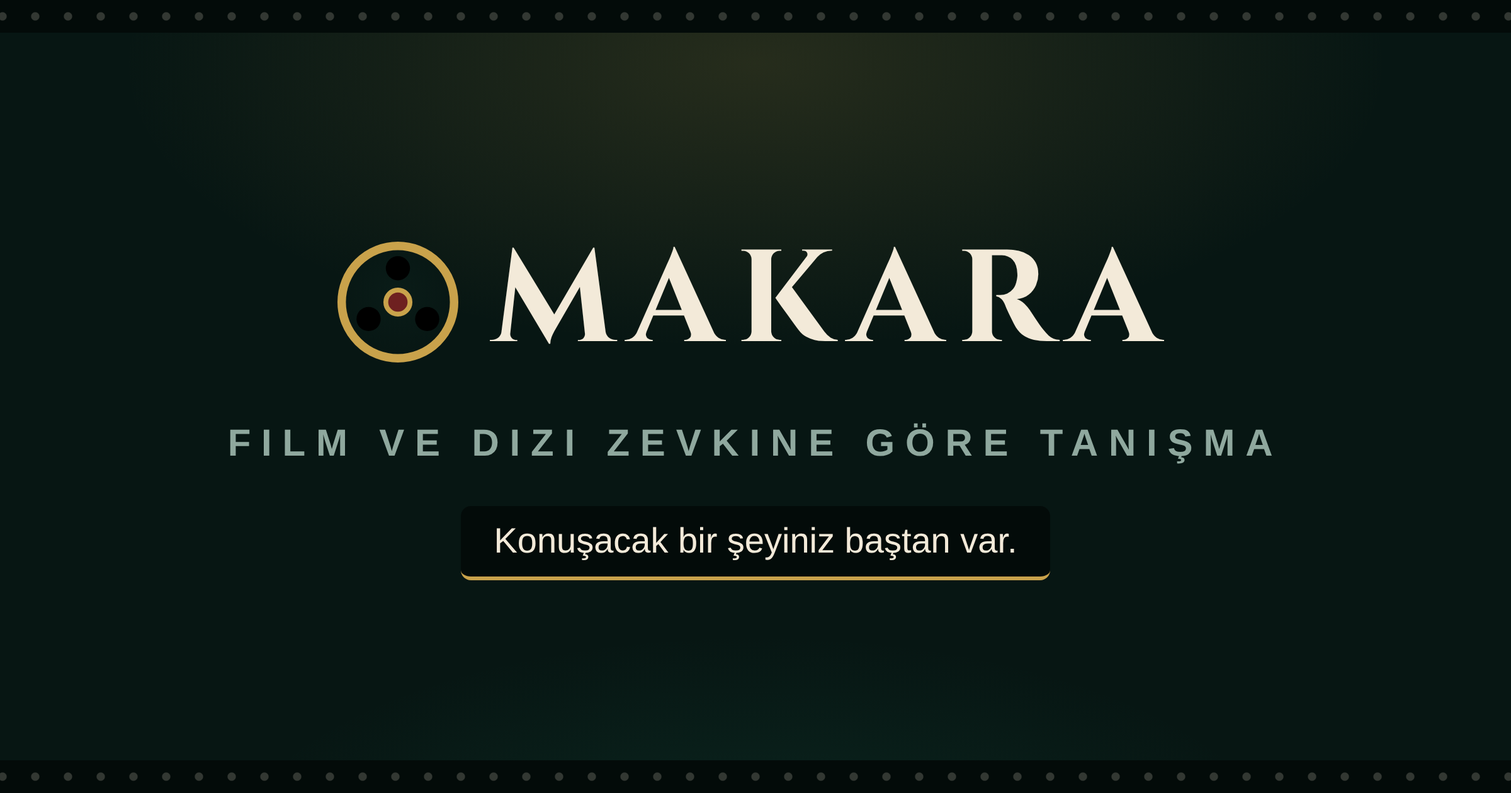
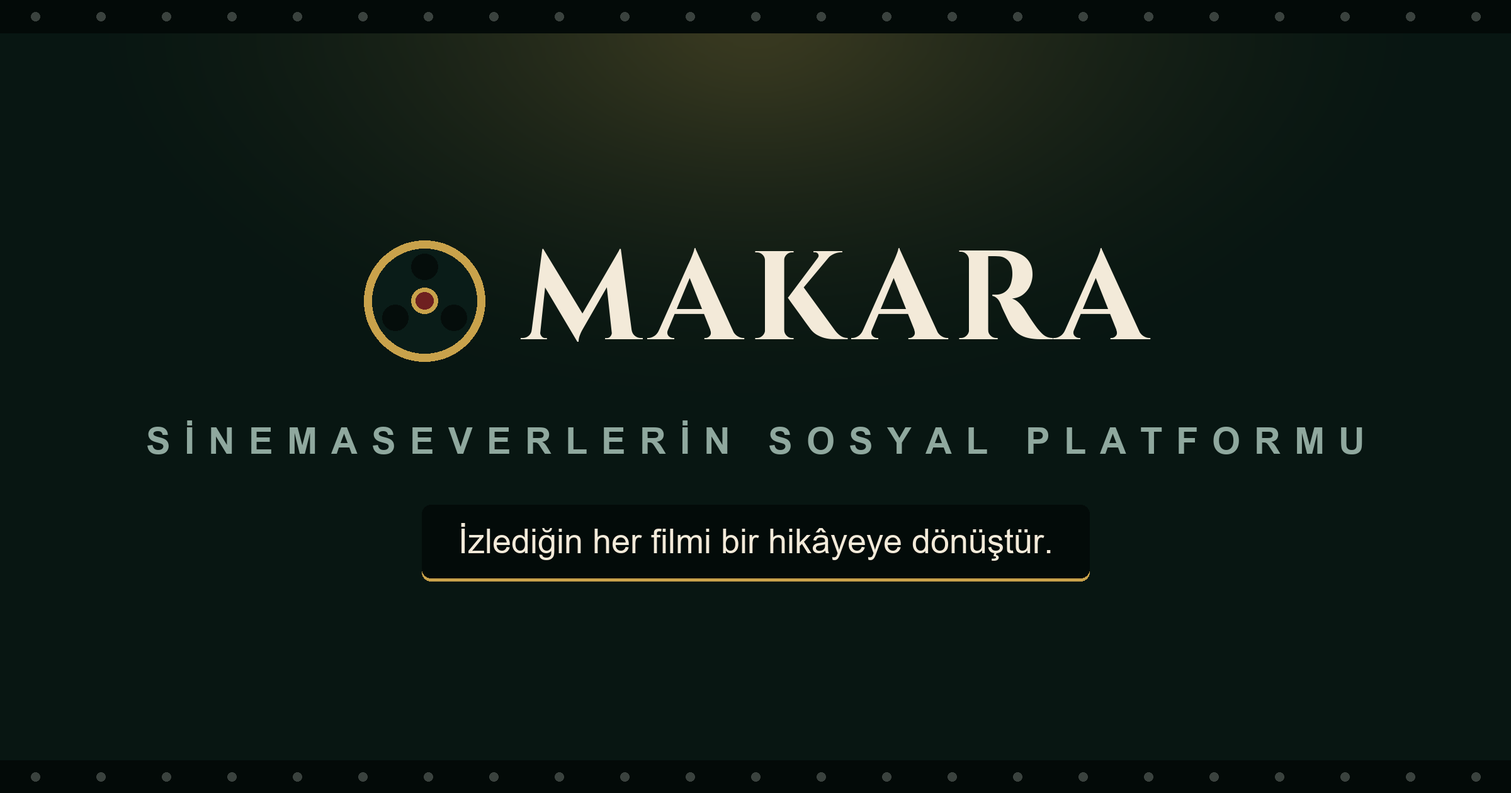
Ana sayfa film-sosyal: dating dili, eski gorseller ve dort kademe cikti
- Kahraman, ozellikler, levha, SSS ve meta/og metinleri film-sosyal
  (film gunlugu, fragman, takip/kesif, Izleme Kahini, Afis Turnuvasi,
  bilgi yarismasi, Zevk DNA'si, film akisi); TR + EN sozluk
- Premium bolumu: iki kademe, Basrol 149 TL/ay ve Yonetmen 1499 TL/ay;
  ozellikler uygulamadaki premium listesinden
- Eslesme/uyum/ortak liste ekran goruntuleri silindi; alt menude
  Eslesme/Begeni gorunen goruntuler yerine kirpilmis vitrin ve fragman
  seridi; kart ici canlandirmalar ayni tokenlarla
- og.png ayni duzende yeniden uretildi ("tanisma" kalkti)
- Stil, stil.css ve genel tasarim degismedi

Changed region(s): [[0.2188, 0.2786, 0.7812, 0.4643], [0.0938, 0.5262, 0.9062, 0.5881], [0.2812, 0.65, 0.7188, 0.7429]]

diff --git a/index.html b/index.html
@@ -3,15 +3,15 @@
 <head>
 <meta charset="UTF-8">
 <meta name="viewport" content="width=device-width, initial-scale=1">
-<title data-i18n="meta.title">MAKARA — Film ve dizi zevkine göre sinema topluluğu</title>
-<meta name="description" content="MAKARA, film ve dizi zevkine göre kurulan bir sinema topluluğu. Fragman izle, zevk uyumunu gör, ortak liste kur, film yarışması oyna.">
+<title data-i18n="meta.title">MAKARA — Sinemaseverlerin sosyal platformu</title>
+<meta name="description" content="MAKARA, sinemaseverlerin sosyal platformu. Film günlüğünü tut, fragman izle, puanla ve incele; Zevk DNA'nı keşfet, Afiş Turnuvası oyna, sinemaseverleri takip et.">
 <meta name="theme-color" content="#050D0B">
 <link rel="icon" href="/favicon.ico" sizes="any">
 <link rel="icon" type="image/png" sizes="32x32" href="/favicon-32x32.png">
 <link rel="apple-touch-icon" href="/apple-touch-icon.png">
 <meta property="og:type" content="website">
-<meta property="og:title" content="MAKARA — Film ve dizi zevkine göre sinema topluluğu">
-<meta property="og:description" content="Fragmanı izle, o filmi bekleyeni bul.">
+<meta property="og:title" content="MAKARA — Sinemaseverlerin sosyal platformu">
+<meta property="og:description" content="İzlediğin her filmi bir hikâyeye dönüştür. Film günlüğü, fragmanlar, Zevk DNA'sı, Afiş Turnuvası ve film akışı.">
 <meta property="og:image" content="https://makara.social/og.png">
 <meta property="og:url" content="https://makara.social/">
 <meta name="twitter:card" content="summary_large_image">
@@ -196,6 +196,52 @@ body::after{content:"";position:fixed;inset:0;pointer-events:none;z-index:12;opa
   .uzun{grid-row:auto}
 }
 
+/* Kart ici canlandirma: gercek ekran goruntusu yerine arayuzden kucuk
+   bir PARCA — ayni tokenlar, ayni ince cizgi, ayni koyu zemin. */
+.mock{margin-top:auto;padding-top:24px}
+.satirlar{display:flex;flex-direction:column;gap:10px}
+.satir{display:flex;align-items:center;gap:13px;padding:11px 14px;border:1px solid var(--line);
+  border-radius:16px;background:rgba(3,8,7,.45)}
+.satir b{display:block;font-size:14px;font-weight:600;color:var(--cream);line-height:1.3}
+.satir small{display:block;font-size:12.5px;color:var(--muted);line-height:1.35}
+.afis{flex:none;width:38px;height:56px;border-radius:7px;border:1px solid var(--line);
+  background:linear-gradient(160deg,#1d3a33,#07120f 72%)}
+.afis.t2{background:linear-gradient(160deg,#4a2a1c,#0d0806 72%)}
+.afis.t3{background:linear-gradient(160deg,#2b2a44,#08080f 72%)}
+.yuz{flex:none;width:34px;height:34px;border-radius:50%;border:1px solid var(--line);
+  background:radial-gradient(circle at 35% 30%,#2a4a42,#0a1714 75%)}
+.yuz.t2{background:radial-gradient(circle at 35% 30%,#5a4524,#120d06 75%)}
+.yildiz{margin-left:auto;color:var(--gold);letter-spacing:.12em;font-size:12.5px;white-space:nowrap}
+.cip{display:inline-block;align-self:flex-start;margin-top:14px;padding:6px 13px;border:1px solid rgba(201,162,75,.45);
+  border-radius:980px;font-family:var(--serif);font-size:10.5px;letter-spacing:.18em;text-transform:uppercase;color:var(--gold)}
+.takip{margin-left:auto;padding:5px 13px;border-radius:980px;background:var(--gold);color:#08110E;
+  font-size:12px;font-weight:600;white-space:nowrap}
+.takip.bos{background:none;border:1px solid var(--line);color:var(--muted)}
+.rakam small{font-size:.36em;letter-spacing:-.01em;color:var(--gold-soft)}
+.arketip{font-family:var(--serif);font-weight:700;font-size:clamp(20px,2vw,24px);letter-spacing:.04em;
+  color:var(--gold);margin-bottom:10px;line-height:1.2}
+.radar{display:block;width:112px;height:112px;margin:0 auto}
+.vs{display:flex;align-items:center;justify-content:center;gap:14px}
+.vs .afis{width:70px;height:102px;border-radius:10px}
+.vs .afis.secili{border-color:var(--gold);box-shadow:0 0 0 1px var(--gold),0 12px 30px rgba(201,162,75,.18)}
+.vs span{font-family:var(--serif);color:var(--gold);font-size:12px;letter-spacing:.24em}
+.soru{padding:11px 14px;border:1px solid var(--line);border-radius:14px;font-size:13px;
+  color:var(--cream);text-align:center;background:rgba(3,8,7,.45)}
+.sik{margin-top:7px;padding:8px 14px;border:1px solid var(--line);border-radius:12px;font-size:13px;color:var(--muted)}
+.sik.dogru{border-color:rgba(201,162,75,.7);color:var(--cream)}
+
+/* ---------------- kademeler ---------------- */
+.kademeler{display:grid;grid-template-columns:repeat(2,1fr);gap:clamp(12px,1.4vw,18px);max-width:980px;margin:0 auto}
+.kademe{display:flex;flex-direction:column}
+.kademe.ust{box-shadow:inset 0 0 0 1px rgba(201,162,75,.55),inset 0 1px 0 rgba(255,255,255,.045)}
+.kademe .ad{font-family:var(--serif);font-weight:700;font-size:clamp(24px,2.6vw,30px);letter-spacing:.06em;color:var(--cream)}
+.kademe .rakam{margin:12px 0 6px}
+.kademe ul{list-style:none;margin-top:20px;display:flex;flex-direction:column;gap:9px}
+.kademe li{position:relative;padding-left:22px;color:var(--muted);font-size:14.5px}
+.kademe li::before{content:"";position:absolute;left:2px;top:.6em;width:8px;height:8px;border-radius:50%;border:1.5px solid var(--gold)}
+.kademe li b{color:var(--cream);font-weight:600}
+@media(max-width:900px){.kademeler{grid-template-columns:1fr}}
+
 /* ---------------- KREM LEVHA ----------------
    Sayfanin tek acik zeminli yeri. Apple'in siyah/beyaz donusumunun
    bizdeki karsiligi; ayrica sayfayi ikiye bolerek "daha var" der. */
@@ -258,6 +304,7 @@ footer .kucuk a{color:#7E9189}
   <a class="marka" href="#"><svg><use href="#reel"/></svg>MAKARA</a>
   <nav>
     <a href="#ozellikler" data-i18n="nav.feat">Özellikler</a>
+    <a href="#premium" data-i18n="nav.prem">Premium</a>
     <a href="#sss" data-i18n="nav.faq">SSS</a>
   </nav>
   <div class="sag">
@@ -271,81 +318,170 @@ footer .kucuk a{color:#7E9189}
 <section class="acilis">
   <div class="acilis-ic">
     <svg class="reel bel"><use href="#reel"/></svg>
-    <h1 class="h1 bel" data-i18n="hero.h1">Ne izlediğin,<br><span>kim olduğunu söyler.</span></h1>
-    <p class="slogan bel" data-i18n="hero.lead">Film ve dizi zevkine göre kurulan sinema topluluğu.</p>
+    <h1 class="h1 bel" data-i18n="hero.h1">İzlediğin her filmi<br><span>bir hikâyeye dönüştür.</span></h1>
+    <p class="slogan bel" data-i18n="hero.lead">Sinemaseverlerin sosyal platformu. Film günlüğünü tut, fragman izle, zevkini keşfet.</p>
     <div class="dugmeler bel">
       <a class="dgm dolu" href="https://play.google.com/store/apps/details?id=social.makara.app"
          target="_blank" rel="noopener" data-i18n="hero.play">Google Play'den indir</a>
       <span class="dgm bos" data-i18n="hero.ios">App Store'da yakında</span>
     </div>
   </div>
-  <div class="urun bel"><img src="img/2-fragman.webp" alt="MAKARA fragman vitrini" fetchpriority="high"></div>
+  <div class="urun bel"><img src="img/vitrin.webp" alt="MAKARA keşfet ekranı" fetchpriority="high"></div>
 </section>
 
 <!-- ===================== BENTO ===================== -->
 <section class="bolum" id="ozellikler">
   <div class="basi bel">
     <span class="etiket" data-i18n="oz.etiket">Özellikler</span>
-    <h2 class="h2" data-i18n="oz.h">Konuşacak bir şeyle başla.</h2>
-    <p data-i18n="oz.p">Boş bir “selam” yerine, ikinizin de sevdiği bir filmle.</p>
+    <h2 class="h2" data-i18n="oz.h">Seyirciden fazlası.</h2>
+    <p data-i18n="oz.p">İzlediklerin bir günlüğe, puanların bir zevk haritasına, takip ettiğin sinemaseverler bir akışa dönüşür.</p>
   </div>
 
   <div class="bento">
     <article class="kutu a4 uzun bel">
-      <span class="etiket" data-i18n="k1.e">Fragman vitrini</span>
-      <h3 class="h3" data-i18n="k1.h">Fragmanı izle,<br>o filmi bekleyeni bul.</h3>
-      <p data-i18n="k1.p">Vizyona girecek yapımların fragmanları ana sayfanda. Uygulamadan çıkmadan izle; video biter bitmez aynı filmi bekleyen seyirciler karşında.</p>
-      <div class="pencere"><img src="img/2-fragman.webp" alt="" loading="lazy" style="--kaydir:-14%"></div>
+      <span class="etiket" data-i18n="k1.e">Film günlüğü</span>
+      <h3 class="h3" data-i18n="k1.h">İzle, kaydet,<br>incele, puanla.</h3>
+      <p data-i18n="k1.p">İzlediğin her film ve diziyi günlüğüne ekle, puan ver, inceleme yaz. İnceledikçe Yeni Eleştirmen’den Efsane Eleştirmen’e rozetler kazan.</p>
+      <div class="mock">
+        <div class="satirlar">
+          <div class="satir"><span class="afis"></span><div><b>Stalker</b><small data-i18n="k1.r1">1979 · İnceleme yazdın</small></div><span class="yildiz">★★★★★</span></div>
+          <div class="satir"><span class="afis t2"></span><div><b>Chungking Express</b><small data-i18n="k1.r2">1994 · Puanladın</small></div><span class="yildiz">★★★★☆</span></div>
+          <div class="satir"><span class="afis t3"></span><div><b>Oldboy</b><small data-i18n="k1.r3">2003 · İzleme listende</small></div></div>
+        </div>
+        <span class="cip" data-i18n="k1.rozet">Usta Eleştirmen rozeti</span>
+      </div>
     </article>
 
     <article class="kutu a2 bel">
-      <span class="etiket" data-i18n="k2.e">Zevk uyumu</span>
-      <div class="rakam" data-i18n="k2.n">%88</div>
-      <p data-i18n="k2.p">Favorilerin, izleme listen ve türlerin karşılaştırılır. Uyumunu ve ortak filmlerinizi yüzdeyle görürsün.</p>
+      <span class="etiket" data-i18n="k2.e">İzleme Kâhini</span>
+      <div class="rakam" data-i18n="k2.n">~4,2<small>/5</small></div>
+      <p data-i18n="k2.p">Bir filmi izlemeden önce kaç puan vereceğini tahmin eder. İzleyince puanla, isabetini gör.</p>
     </article>
 
     <article class="kutu a2 bel">
-      <span class="etiket" data-i18n="k3.e">Ortak liste</span>
-      <h3 class="h3" data-i18n="k3.h">Tek liste, iki kişi.</h3>
-      <p data-i18n="k3.p">Tanıştığın kişiyle paylaşılan izleme listesi. Kim ne ekledi, hangisini izlediniz.</p>
-      <div class="pencere" style="--boy:clamp(140px,15vw,178px)"><img src="img/4-ortakliste.webp" alt="" loading="lazy" style="--kaydir:-18%"></div>
+      <span class="etiket" data-i18n="k3.e">Zevk DNA’sı</span>
+      <div class="arketip" data-i18n="k3.h">Yeraltı Kâşifi</div>
+      <p data-i18n="k3.p">İzlediklerin ve incelemelerinden 17 arketipten biri çıkar; paylaşılabilir kimlik kartın olur.</p>
+      <div class="mock">
+        <svg class="radar" viewBox="0 0 120 120" aria-hidden="true">
+          <polygon points="60,10 103.3,35 103.3,85 60,110 16.7,85 16.7,35" fill="none" stroke="#193A33" stroke-width="1.2"/>
+          <polygon points="60,35 81.65,47.5 81.65,72.5 60,85 38.35,72.5 38.35,47.5" fill="none" stroke="#193A33" stroke-width="1"/>
+          <path d="M60 10V110M16.7 35L103.3 85M103.3 35L16.7 85" stroke="#193A33" stroke-width="1"/>
+          <polygon points="60,15 90.31,42.5 79.49,71.25 60,100 44.84,68.75 31.85,43.75" fill="rgba(201,162,75,.18)" stroke="#C9A24B" stroke-width="1.6"/>
+        </svg>
+      </div>
     </article>
 
     <article class="kutu a2 bel">
-      <span class="etiket" data-i18n="k4.e">Film yarışması</span>
-      <h3 class="h3" data-i18n="k4.h">Sohbette on soru.</h3>
-      <p data-i18n="k4.p">Kim daha çok sinema biliyor, konuşurken öğrenirsiniz.</p>
+      <span class="etiket" data-i18n="k4.e">Afiş Turnuvası</span>
+      <h3 class="h3" data-i18n="k4.h">İki afiş,<br>tek seçim.</h3>
+      <p data-i18n="k4.p">Her turda iki afişten birini seç. Sona kalan senin şampiyonun.</p>
+      <div class="mock"><div class="vs"><span class="afis t2 secili"></span><span>VS</span><span class="afis t3"></span></div></div>
     </article>
 
     <article class="kutu a2 bel">
-      <span class="etiket" data-i18n="k5.e">Şu an izliyorum</span>
-      <h3 class="h3" data-i18n="k5.h">Kısa ömürlü notlar.</h3>
-      <p data-i18n="k5.p">Ne izlediğini paylaş, anlık bir bağ kur; not gün sonunda kaybolsun.</p>
+      <span class="etiket" data-i18n="k5.e">Fragman vitrini</span>
+      <h3 class="h3" data-i18n="k5.h">Fragmanı uygulamada izle.</h3>
+      <p data-i18n="k5.p">Vizyona girecek yapımların fragmanları ana sayfanda; izle, listene ekle.</p>
+      <div class="pencere" style="--boy:clamp(140px,15vw,178px)"><img src="img/fragman.webp" alt="" loading="lazy"></div>
     </article>
 
     <article class="kutu a2 bel">
-      <span class="etiket" data-i18n="k6.e">Güvenli alan</span>
-      <h3 class="h3" data-i18n="k6.h">Denetlenen topluluk.</h3>
-      <p data-i18n="k6.p">Engelleme, şikayet ve görsel denetimi. Kurallar herkes için aynı.</p>
+      <span class="etiket" data-i18n="k6.e">Bilgi yarışması</span>
+      <h3 class="h3" data-i18n="k6.h">Kim daha çok sinema biliyor?</h3>
+      <p data-i18n="k6.p">Takip ettiklerinle sohbette on soruluk film ve dizi yarışması.</p>
+      <div class="mock">
+        <div class="soru" data-i18n="k6.soru">Chungking Express hangi şehirde geçer?</div>
+        <div class="sik dogru">Hong Kong</div>
+        <div class="sik">Taipei</div>
+      </div>
+    </article>
+
+    <article class="kutu a3 bel">
+      <span class="etiket" data-i18n="k7.e">Takip ve keşif</span>
+      <h3 class="h3" data-i18n="k7.h">Sinemaseverleri takip et.</h3>
+      <p data-i18n="k7.p">Yeni sinemaseverler keşfet; favorilerine, incelemelerine ve listelerine göz at.</p>
+      <div class="mock satirlar">
+        <div class="satir"><span class="yuz"></span><div><b>@gece_seansi</b><small data-i18n="k7.r1">318 film · 42 inceleme</small></div><span class="takip" data-i18n="k7.takip">Takip et</span></div>
+        <div class="satir"><span class="yuz t2"></span><div><b>@kurosawaci</b><small data-i18n="k7.r2">1.204 film · 97 inceleme</small></div><span class="takip bos" data-i18n="k7.takipte">Takiptesin</span></div>
+      </div>
+    </article>
+
+    <article class="kutu a3 bel">
+      <span class="etiket" data-i18n="k8.e">Film akışı</span>
+      <h3 class="h3" data-i18n="k8.h">Takip ettiklerin ne izliyor?</h3>
+      <p data-i18n="k8.p">İzlenen, puanlanan ve incelenen filmler tek akışta.</p>
+      <div class="mock satirlar">
+        <div class="satir"><span class="yuz t2"></span><div><b>@kurosawaci</b><small data-i18n="k8.r1">Stalker’ı inceledi · 2 sa</small></div><span class="yildiz">★★★★★</span></div>
+        <div class="satir"><span class="yuz"></span><div><b>@gece_seansi</b><small data-i18n="k8.r2">Oldboy’u izleme listesine ekledi</small></div></div>
+      </div>
     </article>
   </div>
 
-  <p class="dahasi bel" data-i18n="dahasi">Ayrıca <b>vizyon takvimi</b>, <b>inceleme ve puanlama</b>, <b>dört premium kademe</b>.</p>
+  <p class="dahasi bel" data-i18n="dahasi">Ayrıca <b>vizyon takvimi</b>, <b>sinema serisi</b>, <b>Zaman Kapsülü</b> ve <b>denetlenen, güvenli bir topluluk</b>.</p>
 </section>
 
 <!-- ===================== KREM LEVHA ===================== -->
 <div class="levha">
-  <p data-i18n="levha.p">Aynı filmleri sevenler birbirini bulur.</p>
+  <p data-i18n="levha.p">Her film bir iz bırakır.</p>
   <span data-i18n="levha.s">Repress Studio</span>
 </div>
+
+<!-- ===================== KADEMELER ===================== -->
+<section class="bolum" id="premium">
+  <div class="basi bel">
+    <span class="etiket" data-i18n="pr.etiket">Premium</span>
+    <h2 class="h2" data-i18n="pr.h">İki kademe.</h2>
+    <p data-i18n="pr.p">Temel özellikler ücretsiz. Daha derine inmek isteyenler için Başrol ve Yönetmen.</p>
+  </div>
+  <div class="kademeler">
+    <article class="kutu kademe bel">
+      <span class="etiket">Premium</span>
+      <div class="ad">Başrol</div>
+      <div class="rakam" data-i18n="pr.b.fiyat">₺149<small>/ay</small></div>
+      <p data-i18n="pr.b.p">Zevkini derinlemesine tanı.</p>
+      <ul data-i18n="pr.b.liste">
+        <li><b>Sinema istatistiklerin</b>: tür, yönetmen, oyuncu — canlı grafiklerle</li>
+        <li><b>Zevk DNA’n</b>: arketipin ve paylaşılabilir kimlik kartın</li>
+        <li><b>Senin İçin</b>: zevkine göre derin öneriler</li>
+        <li><b>Sana Özel 30</b>: kişisel film listen</li>
+        <li><b>128’lik dev afiş turnuvası</b></li>
+        <li>Yönetmen ve oyuncu yolculuğu: filmografi takibi ve rozetler</li>
+        <li>Sohbette bilgi yarışması</li>
+        <li>Sınırsız takip ve kişi önerisi</li>
+        <li>Sinema serisi dondurma: ayda 2 gün</li>
+      </ul>
+    </article>
+    <article class="kutu kademe ust bel">
+      <span class="etiket">Premium</span>
+      <div class="ad">Yönetmen</div>
+      <div class="rakam" data-i18n="pr.y.fiyat">₺1499<small>/ay</small></div>
+      <p data-i18n="pr.y.p">Bütün araçlar, en üst kademe.</p>
+      <ul data-i18n="pr.y.liste">
+        <li><b>Başrol’ün her şeyi</b></li>
+        <li><b>İzleme Kâhini</b>: izlemeden önce puan tahmini</li>
+        <li><b>Kör Nokta Radarı</b>: sevdiğin türlerde kaçırdıkların</li>
+        <li><b>Sinema Zaman Kapsülü</b>: gelecekteki kendine not</li>
+        <li><b>Yıllık Sinema Karnesi</b>: hikâye gibi, paylaşılır</li>
+        <li>Sinema Ligi: aylık sezon, canlı sıralama</li>
+        <li>Profil afişi ve altın Yönetmen rozeti</li>
+        <li>Sinema serisi dondurma: ayda 4 gün</li>
+        <li>Öncelikli destek</li>
+      </ul>
+    </article>
+  </div>
+  <p class="dahasi bel" data-i18n="pr.not">Abonelik aylık yenilenir; istediğin zaman iptal edebilirsin.</p>
+</section>
 
 <section class="bolum" id="sss">
   <h2 class="bel" data-i18n="sss.h">Sıkça sorulanlar</h2>
   <div class="sss bel">
-    <details open><summary data-i18n="s1.q">MAKARA nasıl eşleştiriyor?</summary>
-      <p data-i18n="s1.a">Film ve dizi zevkine göre. Favori yapımların ve tercihlerin üzerinden seninle ortak beğenilere sahip kişileri önerir; böylece konuşacak bir şeyin baştan olur.</p></details>
+    <details open><summary data-i18n="s1.q">MAKARA ne işe yarar?</summary>
+      <p data-i18n="s1.a">MAKARA sinemaseverlerin sosyal platformu. İzlediğin film ve dizileri günlüğüne kaydeder, puanlar ve incelersin; fragmanları uygulamadan çıkmadan izler, yeni yapımlar keşfedersin. Zevk DNA’n, Afiş Turnuvası ve bilgi yarışmasıyla sinemayla oynarsın; diğer sinemaseverleri takip edip film akışlarını görürsün.</p></details>
     <details><summary data-i18n="s2.q">Uygulama ücretsiz mi?</summary>
-      <p data-i18n="s2.a">Temel özellikler ücretsiz. Dileyenler için ek olanaklar sunan premium kademeler var: Bilet, Loca, Başrol ve Yönetmen.</p></details>
+      <p data-i18n="s2.a">Evet. Film günlüğü, inceleme ve puanlama, fragmanlar, takip ve film akışı ücretsiz. Daha fazlasını isteyenler için iki premium kademe var: Başrol (₺149/ay) ve Yönetmen (₺1499/ay). Abonelik aylık yenilenir, istediğin zaman iptal edebilirsin.</p></details>
+    <details><summary data-i18n="s5.q">Başrol ile Yönetmen arasındaki fark ne?</summary>
+      <p data-i18n="s5.a">Başrol; sinema istatistiklerini, Zevk DNA’nı, kişisel önerileri ve 128’lik dev afiş turnuvasını açar. Yönetmen, Başrol’ün her şeyine ek olarak İzleme Kâhini, Kör Nokta Radarı, Sinema Zaman Kapsülü ve Yıllık Sinema Karnesi’ni getirir.</p></details>
     <details><summary data-i18n="s3.q">Verilerim güvende mi?</summary>
       <p data-i18n="s3.a">Tüm iletişim şifreli bağlantı üzerinden yapılır ve verilerin satılmaz. Ayrıntılar için <a href="/privacy.html">Gizlilik Politikası</a> ve <a href="/kvkk.html">KVKK</a> sayfasına bakabilirsin; hesabını istediğin an tamamen silebilirsin.</p></details>
     <details><summary data-i18n="s4.q">Ne zaman çıkıyor?</summary>
@@ -374,43 +510,73 @@ footer .kucuk a{color:#7E9189}
 
 <script>
 const T = {
- "meta.title":["MAKARA — Film ve dizi zevkine göre sinema topluluğu","MAKARA — A film community built on your taste"],
+ "meta.title":["MAKARA — Sinemaseverlerin sosyal platformu","MAKARA — The social platform for film lovers"],
  "nav.feat":["Özellikler","Features"],
+ "nav.prem":["Premium","Premium"],
  "nav.faq":["SSS","FAQ"],
  "cta.get":["İndir","Get"],
- "hero.h1":["Ne izlediğin,<br><span>kim olduğunu söyler.</span>","What you watch<br><span>says who you are.</span>"],
- "hero.lead":["Film ve dizi zevkine göre kurulan sinema topluluğu.","A film community built on your taste in movies and series."],
+ "hero.h1":["İzlediğin her filmi<br><span>bir hikâyeye dönüştür.</span>","Turn every film you watch<br><span>into a story.</span>"],
+ "hero.lead":["Sinemaseverlerin sosyal platformu. Film günlüğünü tut, fragman izle, zevkini keşfet.","The social platform for film lovers. Keep your film diary, watch trailers, discover your taste."],
  "hero.play":["Google Play'den indir","Get it on Google Play"],
  "hero.ios":["App Store'da yakında","Coming soon to the App Store"],
  "oz.etiket":["Özellikler","Features"],
- "oz.h":["Konuşacak bir şeyle başla.","Start with something to talk about."],
- "oz.p":["Boş bir “selam” yerine, ikinizin de sevdiği bir filmle.","Not an empty “hey” — a film you both love."],
- "k1.e":["Fragman vitrini","Trailer showcase"],
- "k1.h":["Fragmanı izle,<br>o filmi bekleyeni bul.","Watch the trailer,<br>find who's waiting for it."],
- "k1.p":["Vizyona girecek yapımların fragmanları ana sayfanda. Uygulamadan çıkmadan izle; video biter bitmez aynı filmi bekleyen seyirciler karşında.","Trailers for upcoming titles sit on your home screen. Watch without leaving the app — the moment it ends, everyone else waiting for that film is right there."],
- "k2.e":["Zevk uyumu","Taste match"],
- "k2.n":["%88","88%"],
- "k2.p":["Favorilerin, izleme listen ve türlerin karşılaştırılır. Uyumunu ve ortak filmlerinizi yüzdeyle görürsün.","Your favorites, watchlist and genres are compared. You see the match and the films you share, as a percentage."],
- "k3.e":["Ortak liste","Shared list"],
- "k3.h":["Tek liste, iki kişi.","One list, two people."],
- "k3.p":["Tanıştığın kişiyle paylaşılan izleme listesi. Kim ne ekledi, hangisini izlediniz.","A watchlist shared with the person you meet. Who added what, what you've watched."],
- "k4.e":["Film yarışması","Film quiz"],
- "k4.h":["Sohbette on soru.","Ten questions in chat."],
- "k4.p":["Kim daha çok sinema biliyor, konuşurken öğrenirsiniz.","You find out who knows more cinema while you talk."],
- "k5.e":["Şu an izliyorum","Now watching"],
- "k5.h":["Kısa ömürlü notlar.","Notes that fade."],
- "k5.p":["Ne izlediğini paylaş, anlık bir bağ kur; not gün sonunda kaybolsun.","Share what you're watching for an instant connection — the note disappears by the end of the day."],
- "k6.e":["Güvenli alan","A safe space"],
- "k6.h":["Denetlenen topluluk.","A moderated community."],
- "k6.p":["Engelleme, şikayet ve görsel denetimi. Kurallar herkes için aynı.","Blocking, reporting and image moderation. The same rules for everyone."],
- "dahasi":["Ayrıca <b>vizyon takvimi</b>, <b>inceleme ve puanlama</b>, <b>dört premium kademe</b>.","Plus a <b>release calendar</b>, <b>reviews and ratings</b>, and <b>four premium tiers</b>."],
- "levha.p":["Aynı filmleri sevenler birbirini bulur.","People who love the same films find each other."],
+ "oz.h":["Seyirciden fazlası.","More than an audience."],
+ "oz.p":["İzlediklerin bir günlüğe, puanların bir zevk haritasına, takip ettiğin sinemaseverler bir akışa dönüşür.","What you watch becomes a diary, your ratings a map of your taste, and the film lovers you follow a feed."],
+ "k1.e":["Film günlüğü","Film diary"],
+ "k1.h":["İzle, kaydet,<br>incele, puanla.","Watch, log,<br>review, rate."],
+ "k1.p":["İzlediğin her film ve diziyi günlüğüne ekle, puan ver, inceleme yaz. İnceledikçe Yeni Eleştirmen’den Efsane Eleştirmen’e rozetler kazan.","Add every film and series you watch to your diary, rate it, write a review. The more you review, the more badges you earn — from New Critic to Legendary Critic."],
+ "k1.r1":["1979 · İnceleme yazdın","1979 · You reviewed"],
+ "k1.r2":["1994 · Puanladın","1994 · You rated"],
+ "k1.r3":["2003 · İzleme listende","2003 · On your watchlist"],
+ "k1.rozet":["Usta Eleştirmen rozeti","Master Critic badge"],
+ "k2.e":["İzleme Kâhini","Watch Oracle"],
+ "k2.n":["~4,2<small>/5</small>","~4.2<small>/5</small>"],
+ "k2.p":["Bir filmi izlemeden önce kaç puan vereceğini tahmin eder. İzleyince puanla, isabetini gör.","Predicts how you’ll rate a film before you watch it. Rate it afterwards and see how close it got."],
+ "k3.e":["Zevk DNA’sı","Taste DNA"],
+ "k3.h":["Yeraltı Kâşifi","Underground Explorer"],
+ "k3.p":["İzlediklerin ve incelemelerinden 17 arketipten biri çıkar; paylaşılabilir kimlik kartın olur.","Your watches and reviews reveal one of 17 archetypes — with a shareable identity card."],
+ "k4.e":["Afiş Turnuvası","Poster Tournament"],
+ "k4.h":["İki afiş,<br>tek seçim.","Two posters,<br>one pick."],
+ "k4.p":["Her turda iki afişten birini seç. Sona kalan senin şampiyonun.","Pick one of two posters each round. The last one standing is your champion."],
+ "k5.e":["Fragman vitrini","Trailer showcase"],
+ "k5.h":["Fragmanı uygulamada izle.","Watch trailers in the app."],
+ "k5.p":["Vizyona girecek yapımların fragmanları ana sayfanda; izle, listene ekle.","Trailers for upcoming releases sit on your home screen — watch, then add them to your list."],
+ "k6.e":["Bilgi yarışması","Film quiz"],
+ "k6.h":["Kim daha çok sinema biliyor?","Who knows more cinema?"],
+ "k6.p":["Takip ettiklerinle sohbette on soruluk film ve dizi yarışması.","A ten-question film and TV quiz in chat with the people you follow."],
+ "k6.soru":["Chungking Express hangi şehirde geçer?","Where is Chungking Express set?"],
+ "k7.e":["Takip ve keşif","Follow & discover"],
+ "k7.h":["Sinemaseverleri takip et.","Follow film lovers."],
+ "k7.p":["Yeni sinemaseverler keşfet; favorilerine, incelemelerine ve listelerine göz at.","Discover new film lovers and browse their favorites, reviews and lists."],
+ "k7.r1":["318 film · 42 inceleme","318 films · 42 reviews"],
+ "k7.r2":["1.204 film · 97 inceleme","1,204 films · 97 reviews"],
+ "k7.takip":["Takip et","Follow"],
+ "k7.takipte":["Takiptesin","Following"],
+ "k8.e":["Film akışı","Film feed"],
+ "k8.h":["Takip ettiklerin ne izliyor?","What are your follows watching?"],
+ "k8.p":["İzlenen, puanlanan ve incelenen filmler tek akışta.","What they watch, rate and review — in one feed."],
+ "k8.r1":["Stalker’ı inceledi · 2 sa","reviewed Stalker · 2h"],
+ "k8.r2":["Oldboy’u izleme listesine ekledi","added Oldboy to their watchlist"],
+ "dahasi":["Ayrıca <b>vizyon takvimi</b>, <b>sinema serisi</b>, <b>Zaman Kapsülü</b> ve <b>denetlenen, güvenli bir topluluk</b>.","Plus a <b>release calendar</b>, <b>cinema streaks</b>, <b>Time Capsules</b> and <b>a moderated, safe community</b>."],
+ "levha.p":["Her film bir iz bırakır.","Every film leaves a mark."],
  "levha.s":["Repress Studio","Repress Studio"],
+ "pr.etiket":["Premium","Premium"],
+ "pr.h":["İki kademe.","Two tiers."],
+ "pr.p":["Temel özellikler ücretsiz. Daha derine inmek isteyenler için Başrol ve Yönetmen.","Core features are free. Başrol and Yönetmen are for those who want to go deeper."],
+ "pr.b.fiyat":["₺149<small>/ay</small>","₺149<small>/mo</small>"],
+ "pr.b.p":["Zevkini derinlemesine tanı.","Get to know your taste in depth."],
+ "pr.b.liste":["<li><b>Sinema istatistiklerin</b>: tür, yönetmen, oyuncu — canlı grafiklerle</li><li><b>Zevk DNA’n</b>: arketipin ve paylaşılabilir kimlik kartın</li><li><b>Senin İçin</b>: zevkine göre derin öneriler</li><li><b>Sana Özel 30</b>: kişisel film listen</li><li><b>128’lik dev afiş turnuvası</b></li><li>Yönetmen ve oyuncu yolculuğu: filmografi takibi ve rozetler</li><li>Sohbette bilgi yarışması</li><li>Sınırsız takip ve kişi önerisi</li><li>Sinema serisi dondurma: ayda 2 gün</li>","<li><b>Your film stats</b>: genres, directors, actors — in live charts</li><li><b>Your Taste DNA</b>: your archetype and a shareable identity card</li><li><b>For You</b>: deep picks based on your taste</li><li><b>Your 30</b>: a personal film list</li><li><b>128-title mega poster tournament</b></li><li>Director and actor journeys: filmography tracking and badges</li><li>Film quiz in chat</li><li>Unlimited follows and people suggestions</li><li>Cinema streak freeze: 2 days a month</li>"],
+ "pr.y.fiyat":["₺1499<small>/ay</small>","₺1499<small>/mo</small>"],
+ "pr.y.p":["Bütün araçlar, en üst kademe.","Every tool — the top tier."],
+ "pr.y.liste":["<li><b>Başrol’ün her şeyi</b></li><li><b>İzleme Kâhini</b>: izlemeden önce puan tahmini</li><li><b>Kör Nokta Radarı</b>: sevdiğin türlerde kaçırdıkların</li><li><b>Sinema Zaman Kapsülü</b>: gelecekteki kendine not</li><li><b>Yıllık Sinema Karnesi</b>: hikâye gibi, paylaşılır</li><li>Sinema Ligi: aylık sezon, canlı sıralama</li><li>Profil afişi ve altın Yönetmen rozeti</li><li>Sinema serisi dondurma: ayda 4 gün</li><li>Öncelikli destek</li>","<li><b>Everything in Başrol</b></li><li><b>Watch Oracle</b>: predicts your rating before you watch</li><li><b>Blind Spot Radar</b>: essentials you’ve missed in genres you love</li><li><b>Cinema Time Capsule</b>: notes to your future self</li><li><b>Yearly Cinema Report Card</b>: told like a story, shareable</li><li>Cinema League: monthly seasons, live rankings</li><li>Profile banner and golden Yönetmen badge</li><li>Cinema streak freeze: 4 days a month</li><li>Priority support</li>"],
+ "pr.not":["Abonelik aylık yenilenir; istediğin zaman iptal edebilirsin.","Subscriptions renew monthly; cancel anytime."],
  "sss.h":["Sıkça sorulanlar","FAQ"],
- "s1.q":["MAKARA nasıl eşleştiriyor?","How does MAKARA match people?"],
- "s1.a":["Film ve dizi zevkine göre. Favori yapımların ve tercihlerin üzerinden seninle ortak beğenilere sahip kişileri önerir; böylece konuşacak bir şeyin baştan olur.","By taste in film and TV. Based on your favorites and preferences it suggests people who share your taste — so you have something to talk about from the start."],
+ "s1.q":["MAKARA ne işe yarar?","What is MAKARA for?"],
+ "s1.a":["MAKARA sinemaseverlerin sosyal platformu. İzlediğin film ve dizileri günlüğüne kaydeder, puanlar ve incelersin; fragmanları uygulamadan çıkmadan izler, yeni yapımlar keşfedersin. Zevk DNA’n, Afiş Turnuvası ve bilgi yarışmasıyla sinemayla oynarsın; diğer sinemaseverleri takip edip film akışlarını görürsün.","MAKARA is the social platform for film lovers. Log, rate and review the films and series you watch; watch trailers without leaving the app and discover new titles. Play with cinema through your Taste DNA, the Poster Tournament and film quizzes — and follow other film lovers to see their film feed."],
  "s2.q":["Uygulama ücretsiz mi?","Is the app free?"],
- "s2.a":["Temel özellikler ücretsiz. Dileyenler için ek olanaklar sunan premium kademeler var: Bilet, Loca, Başrol ve Yönetmen.","Core features are free. Premium tiers with extra perks are available: Bilet, Loca, Başrol and Yönetmen."],
+ "s2.a":["Evet. Film günlüğü, inceleme ve puanlama, fragmanlar, takip ve film akışı ücretsiz. Daha fazlasını isteyenler için iki premium kademe var: Başrol (₺149/ay) ve Yönetmen (₺1499/ay). Abonelik aylık yenilenir, istediğin zaman iptal edebilirsin.","Yes. The film diary, reviews and ratings, trailers, follows and the film feed are free. For more, there are two premium tiers: Başrol (₺149/month) and Yönetmen (₺1499/month). Subscriptions renew monthly and you can cancel anytime."],
+ "s5.q":["Başrol ile Yönetmen arasındaki fark ne?","What’s the difference between Başrol and Yönetmen?"],
+ "s5.a":["Başrol; sinema istatistiklerini, Zevk DNA’nı, kişisel önerileri ve 128’lik dev afiş turnuvasını açar. Yönetmen, Başrol’ün her şeyine ek olarak İzleme Kâhini, Kör Nokta Radarı, Sinema Zaman Kapsülü ve Yıllık Sinema Karnesi’ni getirir.","Başrol unlocks your film stats, your Taste DNA, personal picks and the 128-title mega poster tournament. Yönetmen includes everything in Başrol, plus the Watch Oracle, Blind Spot Radar, Cinema Time Capsule and the Yearly Cinema Report Card."],
  "s3.q":["Verilerim güvende mi?","Is my data safe?"],
  "s3.a":["Tüm iletişim şifreli bağlantı üzerinden yapılır ve verilerin satılmaz. Ayrıntılar için <a href=\"/privacy.html\">Gizlilik Politikası</a> ve <a href=\"/kvkk.html\">KVKK</a> sayfasına bakabilirsin; hesabını istediğin an tamamen silebilirsin.","All traffic runs over an encrypted connection and your data is never sold. See the <a href=\"/privacy.html\">Privacy Policy</a> and <a href=\"/kvkk.html\">KVKK</a> page; you can delete your account entirely at any time."],
  "s4.q":["Ne zaman çıkıyor?","When is it launching?"],
